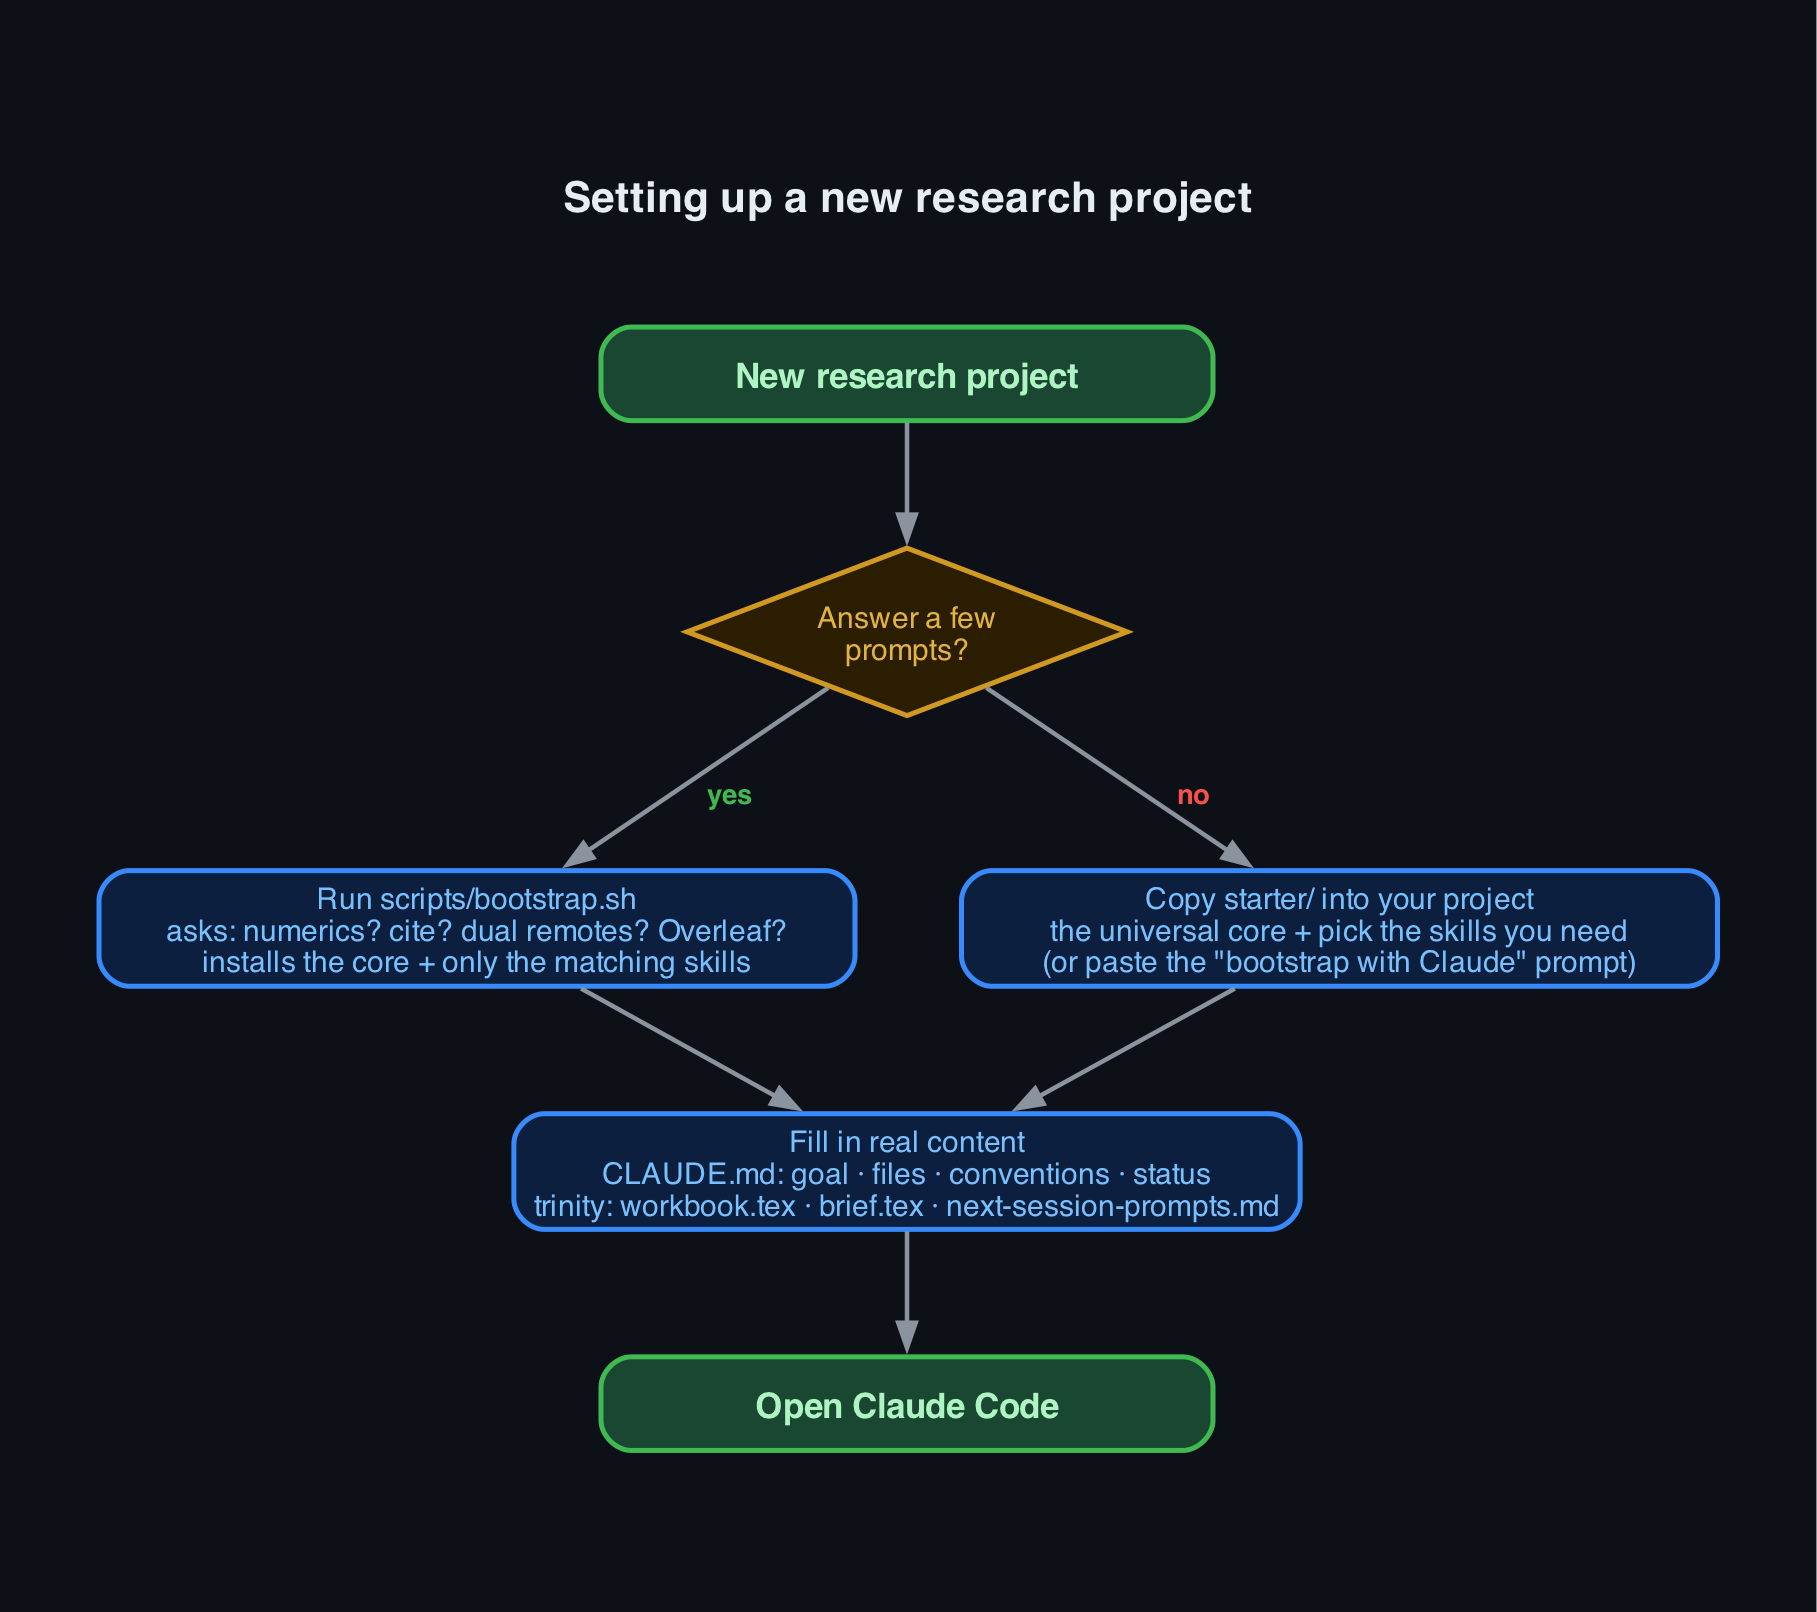
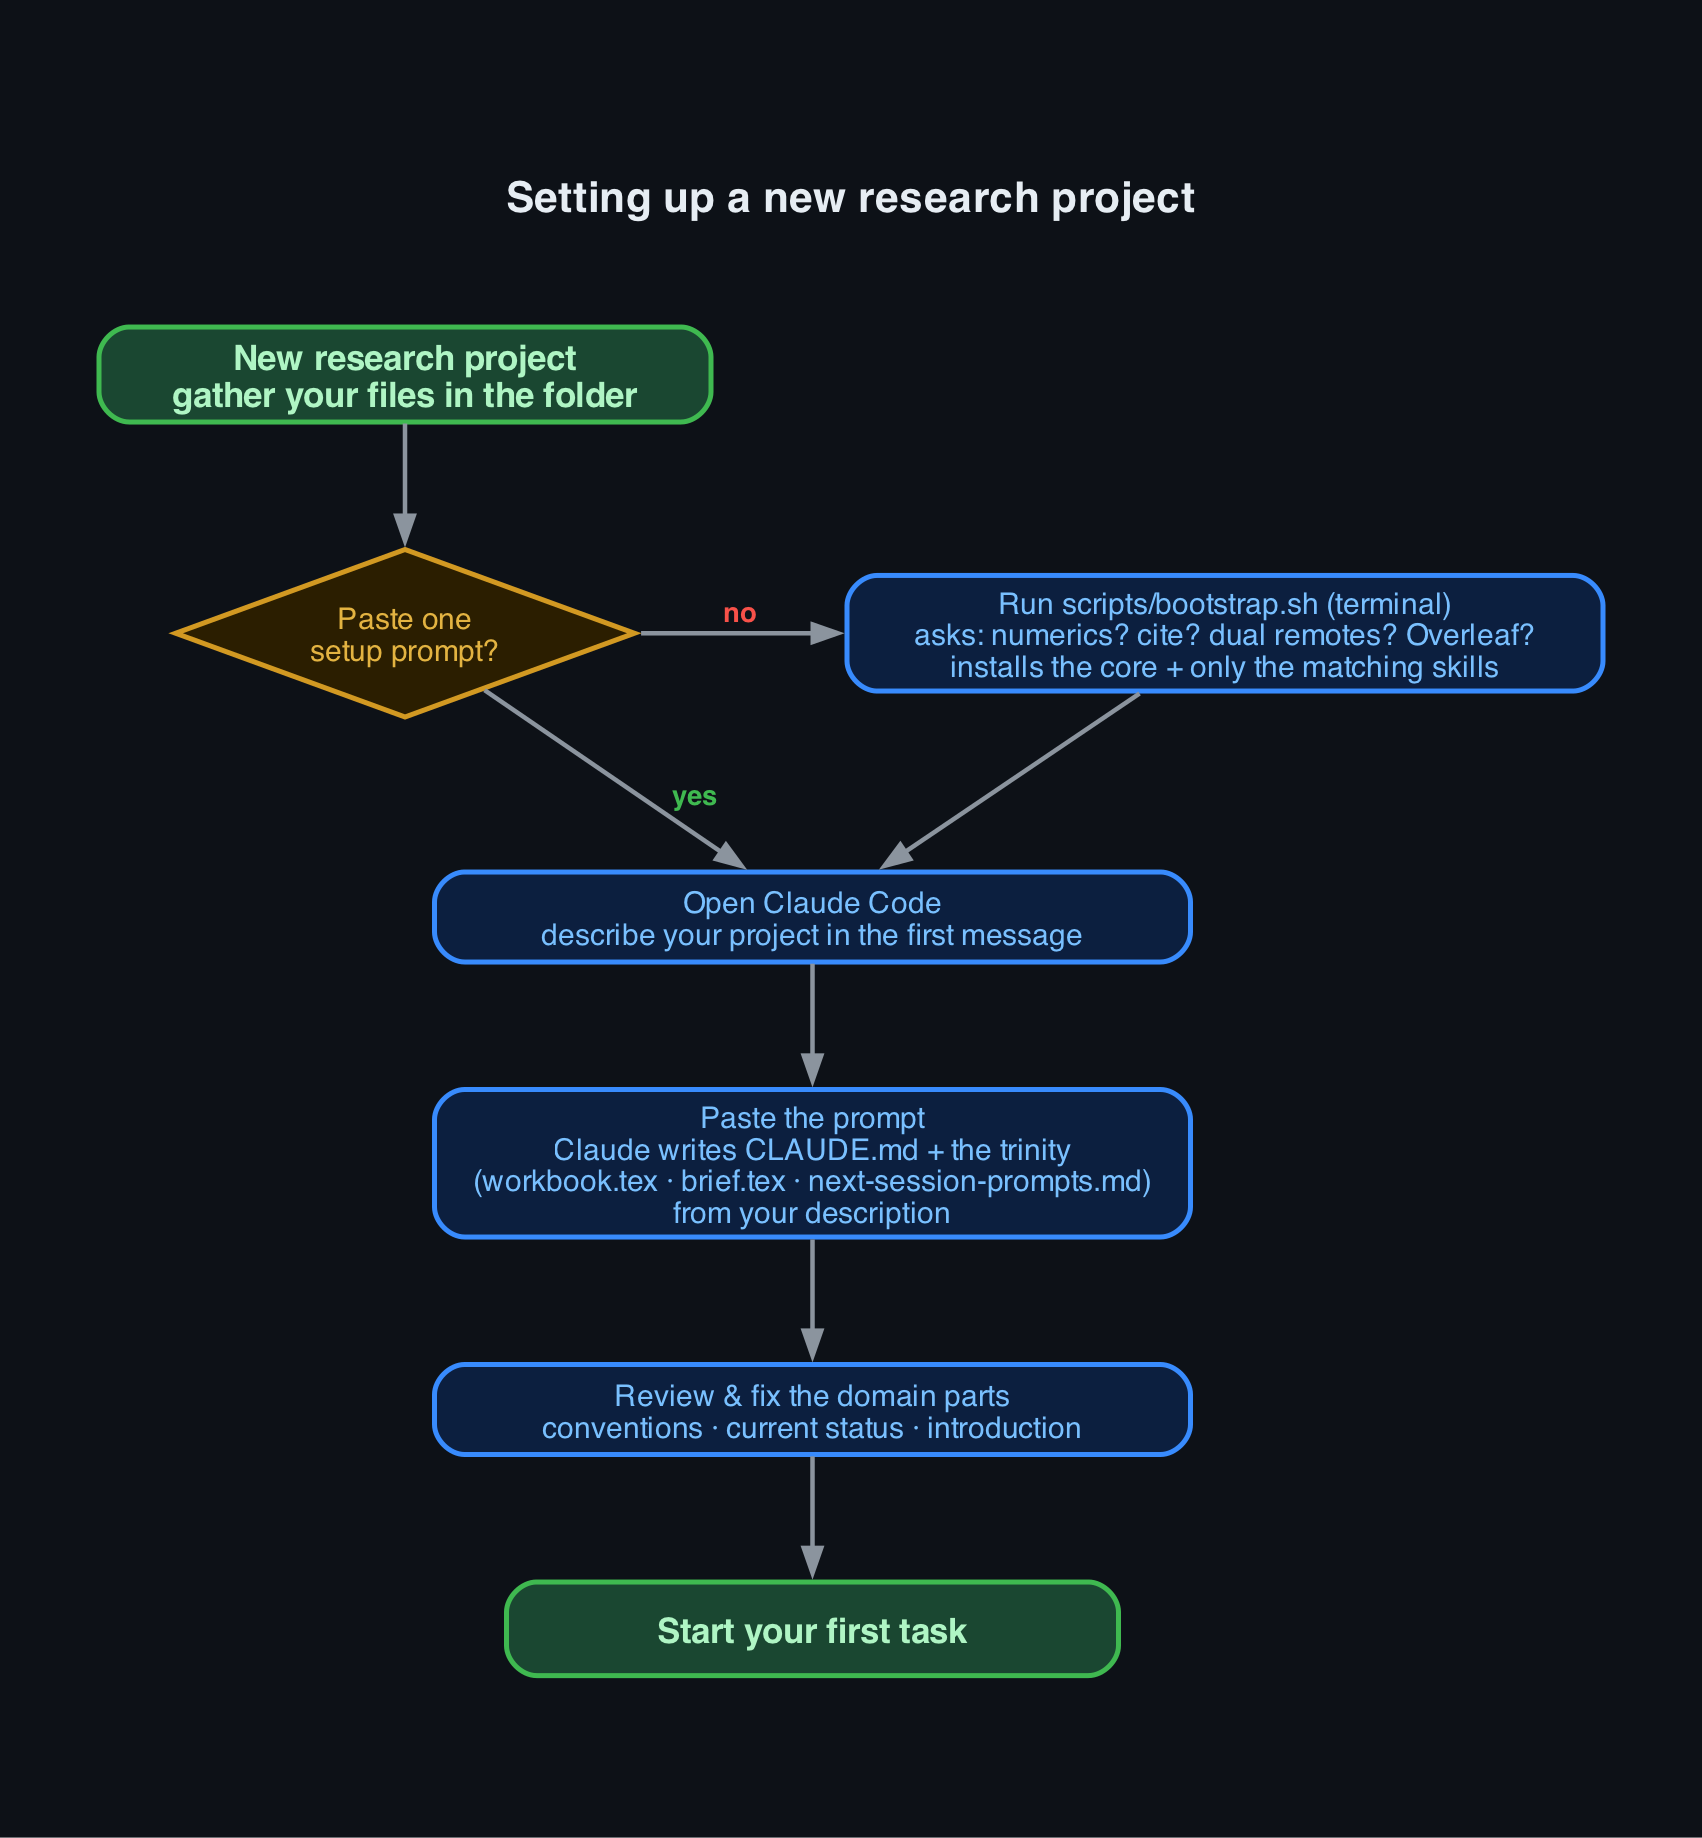
flowcharts: fix setup-chart ordering — open Claude Code before pasting the prompt
The setup chart ended at 'Open Claude Code', but the guide's primary route
opens Claude Code first (Step 2) and then pastes the setup prompt (Step 4) that
writes the files, and even the scripted route opens Claude Code to fill content.
So Open Claude Code and the content-fill must precede the end, not be it.

Reorder to: gather files -> [paste one setup prompt?] -> Open Claude Code +
describe project -> paste the prompt (Claude writes CLAUDE.md + the trinity from
your description) -> review & fix the domain parts -> start your first task.
scripts/bootstrap.sh becomes the 'no' side branch that merges in before Claude
Code opens (matching the README, where the pasted prompt is primary and the
script is the alternative).

diff --git a/scripts/generate_flowcharts.py b/scripts/generate_flowcharts.py
@@ -89,27 +89,31 @@ def same_rank(g, *nodes):
 def chart_setup():
     g = make_graph('setup', 'Setting up a new research project\n\n\n', pad='0.55,0.9')
 
-    nd(g, 'start',  'New research project',                        S_TERM)
-    nd(g, 'dstart', 'Answer a few\nprompts?',                      S_DEC)
-    nd(g, 'boot',   'Run scripts/bootstrap.sh\n'
+    nd(g, 'start',  'New research project\n'
+                    'gather your files in the folder',             S_TERM)
+    nd(g, 'dstart', 'Paste one\nsetup prompt?',                    S_DEC)
+    nd(g, 'boot',   'Run scripts/bootstrap.sh (terminal)\n'
                     'asks: numerics? cite? dual remotes? Overleaf?\n'
                     'installs the core + only the matching skills', S_PROC)
-    nd(g, 'copy',   'Copy starter/ into your project\n'
-                    'the universal core + pick the skills you need\n'
-                    '(or paste the "bootstrap with Claude" prompt)', S_PROC)
-    nd(g, 'fill',   'Fill in real content\n'
-                    'CLAUDE.md: goal · files · conventions · status\n'
-                    'trinity: workbook.tex · brief.tex · next-session-prompts.md', S_PROC)
-    nd(g, 'end',    'Open Claude Code',                            S_TERM)
+    nd(g, 'open',   'Open Claude Code\n'
+                    'describe your project in the first message',  S_PROC)
+    nd(g, 'fill',   'Paste the prompt\n'
+                    'Claude writes CLAUDE.md + the trinity\n'
+                    '(workbook.tex · brief.tex · next-session-prompts.md)\n'
+                    'from your description',                        S_PROC)
+    nd(g, 'review', 'Review & fix the domain parts\n'
+                    'conventions · current status · introduction', S_PROC)
+    nd(g, 'end',    'Start your first task',                       S_TERM)
 
     ed(g, 'start',  'dstart', E_MAIN)
-    ed(g, 'dstart', 'boot',   E_YES,  lbl='yes')
-    ed(g, 'dstart', 'copy',   E_NO,   lbl='no')
-    ed(g, 'boot',   'fill',   E_MAIN)
-    ed(g, 'copy',   'fill',   E_MAIN)
-    ed(g, 'fill',   'end',    E_MAIN)
+    ed(g, 'dstart', 'open',   E_YES,  lbl='yes')
+    ed(g, 'dstart', 'boot',   E_NO,   lbl='no')
+    ed(g, 'boot',   'open',   E_MAIN)
+    ed(g, 'open',   'fill',   E_MAIN)
+    ed(g, 'fill',   'review', E_MAIN)
+    ed(g, 'review', 'end',    E_MAIN)
 
-    same_rank(g, 'boot', 'copy')
+    same_rank(g, 'dstart', 'boot')
     return g
 
 
